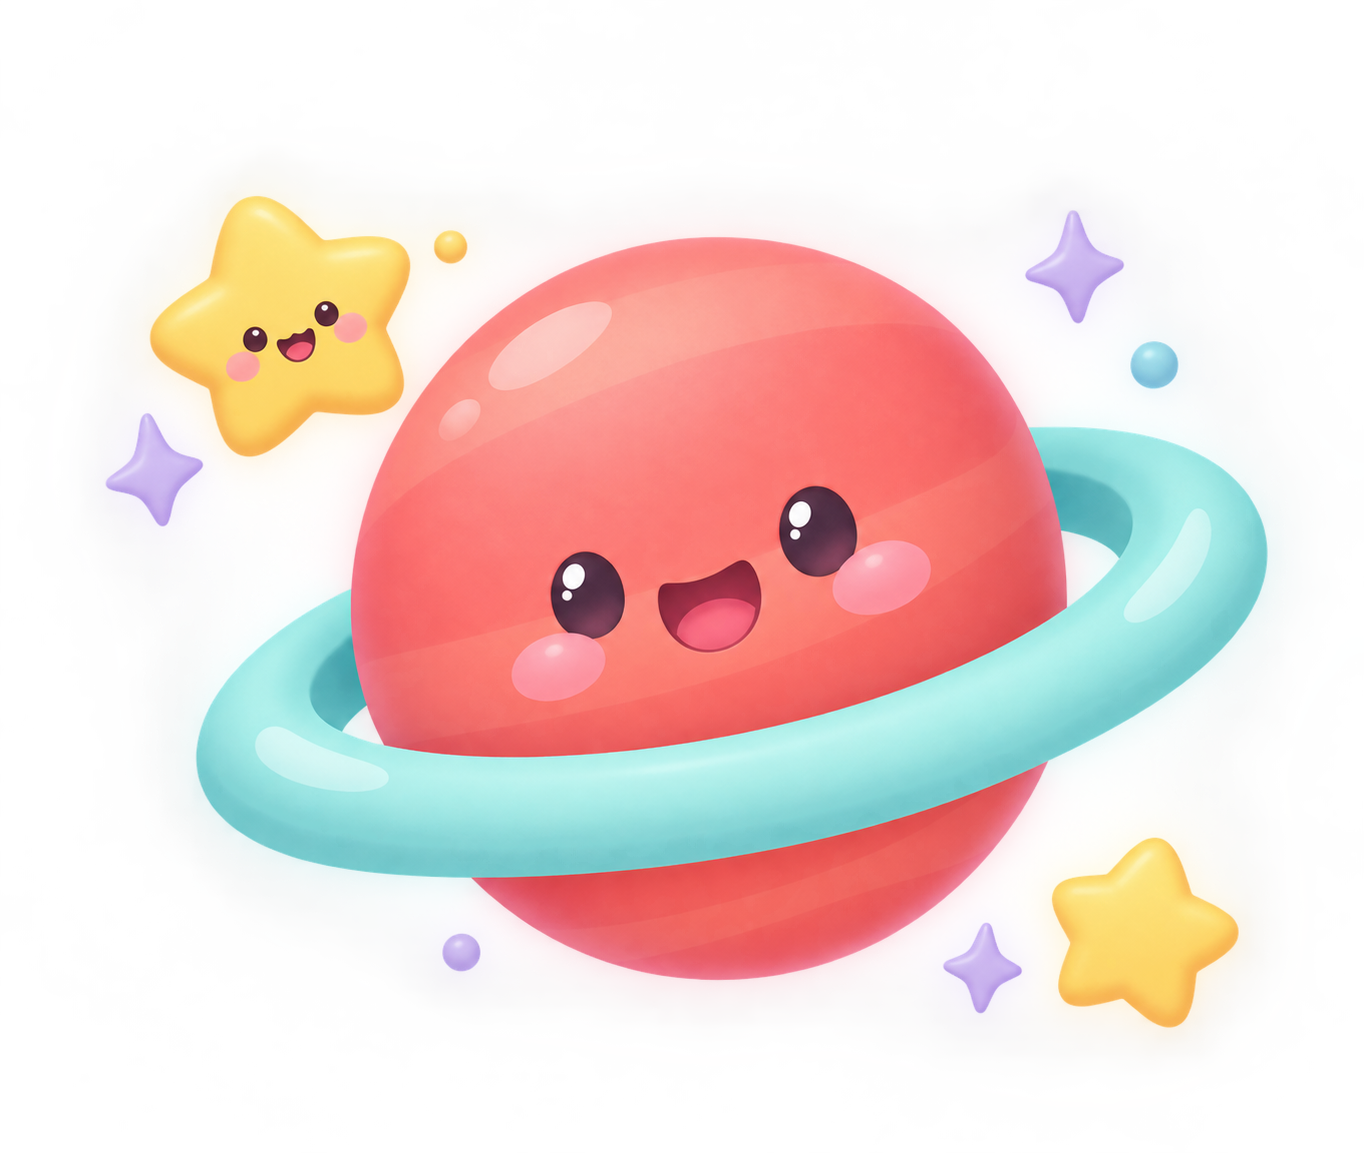
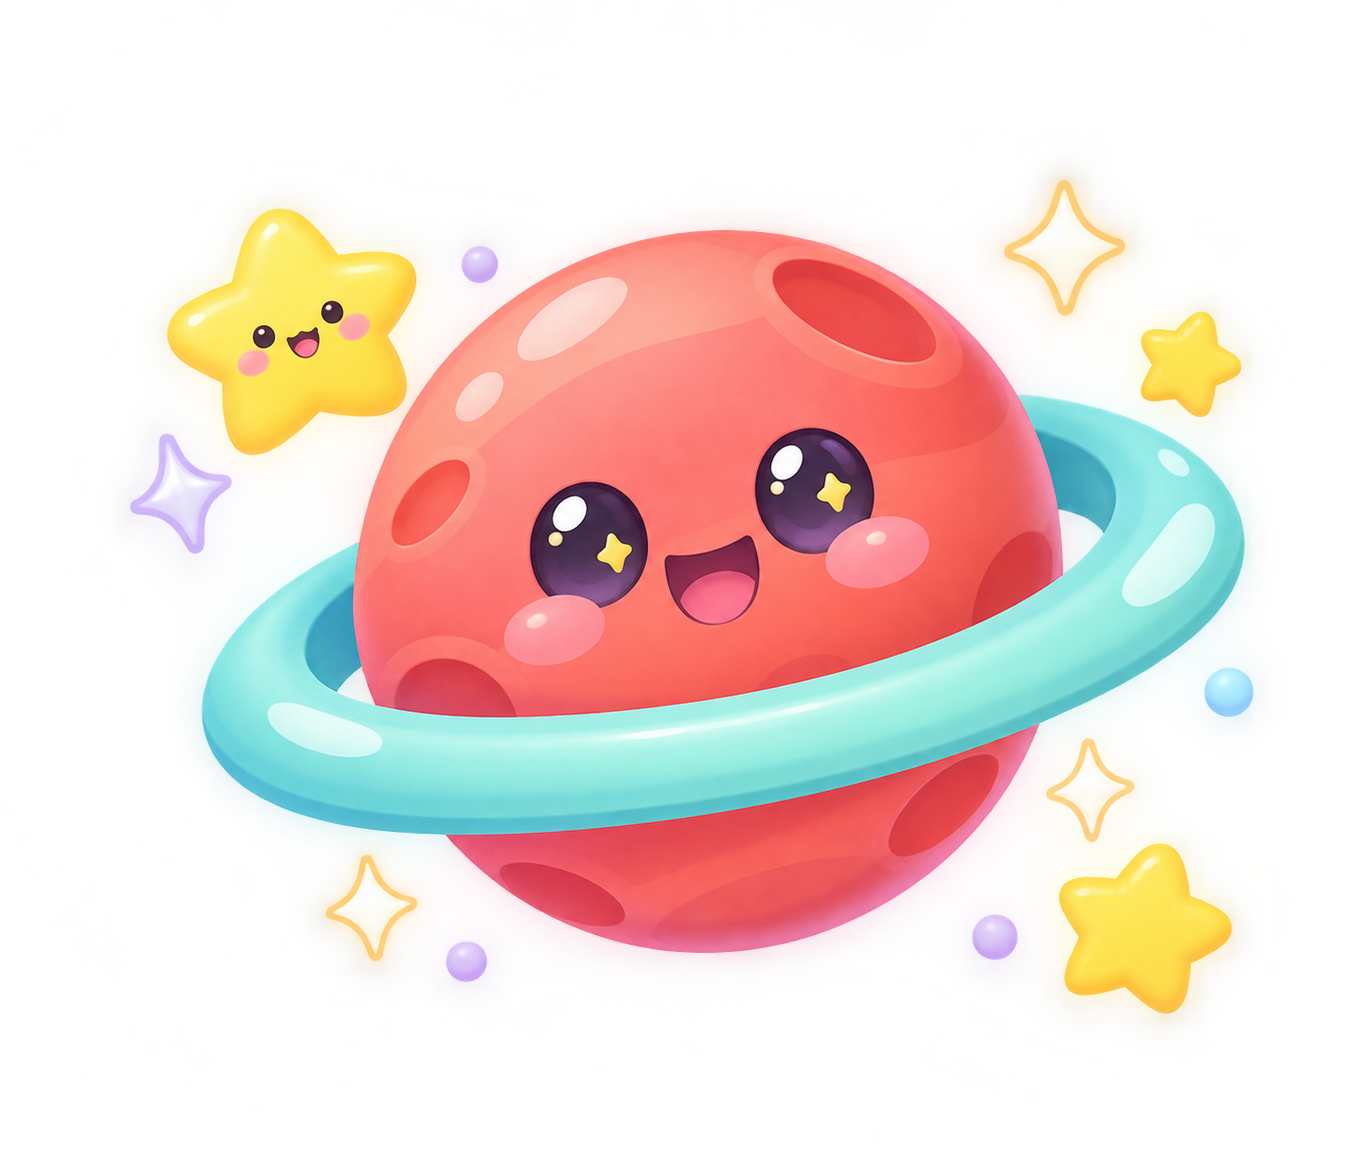
homescreen 완성

Changed region(s): [[0.0616, 0.1561, 0.9545, 0.9055], [0.4619, 0.1873, 0.739, 0.3435], [0.739, 0.1561, 0.8314, 0.281]]

diff --git a/src/screens/home/HomeScreen.tsx b/src/screens/home/HomeScreen.tsx
@@ -147,16 +147,6 @@ export default function HomeScreen() {
               다양한 놀이와 배움!
             </HeroDescription>
           </HeroTextArea>
-
-          {/* 로켓 */}
-          {/* <Rocket>
-            <RocketText>🚀</RocketText>
-          </Rocket> */}
-
-          {/* 행성 */}
-          {/* <HeroPlanet>
-            <HeroPlanetText>🪐</HeroPlanetText>
-          </HeroPlanet> */}
         </HeroCard>
         {/* Game filter */}
         <FilterRow>
@@ -233,10 +223,7 @@ export default function HomeScreen() {
               bgColor={COLORS.softBlue}
               onPress={() => showLockedAlert("패턴 놀이")}
             >
-              <CardIllustration>
-                <IllustrationText>🌈</IllustrationText>
-                <IllustrationSmallText>⭐ 🔵 ⭐</IllustrationSmallText>
-              </CardIllustration>
+              <CardImage source={ASSETS.cardPattern} />
 
               <CardBottom>
                 <View>
@@ -260,10 +247,7 @@ export default function HomeScreen() {
               bgColor={COLORS.softYellow}
               onPress={() => showLockedAlert("퍼즐 맞추기")}
             >
-              <CardIllustration>
-                <IllustrationText>🧩</IllustrationText>
-                <IllustrationSmallText>⭐ ✨</IllustrationSmallText>
-              </CardIllustration>
+              <CardImage source={ASSETS.cardPuzzle} />
 
               <CardBottom>
                 <View>
@@ -283,10 +267,7 @@ export default function HomeScreen() {
               bgColor={COLORS.softMint}
               onPress={() => showLockedAlert("미로 찾기")}
             >
-              <CardIllustration>
-                <IllustrationText>🛸</IllustrationText>
-                <IllustrationSmallText>✨ 🪐 ✨</IllustrationSmallText>
-              </CardIllustration>
+              <CardImage source={ASSETS.cardMaze} />
 
               <CardBottom>
                 <View>
@@ -302,10 +283,10 @@ export default function HomeScreen() {
           </GameGrid>
 
           {/* Coming soon */}
-          <ComingSoon>
+          {/* <ComingSoon>
             <ComingSoonEmoji>✨ 👽 ✨</ComingSoonEmoji>
             <ComingSoonText>새로운 놀이가 기다리고 있어요!</ComingSoonText>
-          </ComingSoon>
+          </ComingSoon> */}
 
           {/* Footer */}
         </ScrollView>
@@ -363,7 +344,7 @@ const Header = styled.View`
   flex-direction: row;
   justify-content: space-between;
   align-items: center;
-  margin-top: 30px;
+  margin-top: 40px;
   margin-left: 18px;
   margin-right: 18px;
   margin-bottom: 18px;
@@ -444,7 +425,7 @@ const HeroDescription = styled.Text`
 const FilterRow = styled.View`
   flex-direction: row;
   gap: 8px;
-
+  margin-top: 40px;
   margin-left: 18px;
   margin-right: 18px;
 `;

diff --git a/src/assets/assets.ts b/src/assets/assets.ts
@@ -1,5 +1,8 @@
 export const ASSETS = {
   homeBackground: require("../assets/Home/home-background.png"),
   cardClassification: require("../assets/Home/card_classification.png"),
+  cardPattern: require("../assets/Home/card_pattern.png"),
+  cardPuzzle: require("../assets/Home/card_puzzle.png"),
+  cardMaze: require("../assets/Home/card_maze.png"),
   mascot: require("../assets/Common/kids_mascot.png"),
 } as const;
